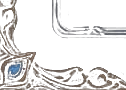
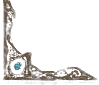
[Claude] fix: 成就頁依回饋調整（還原原外框、角飾對齊、標題縮小置中、進度條、固定高度、清除圖片殘留）

diff --git a/css/achievements.css b/css/achievements.css
@@ -51,46 +51,39 @@
 }
 
 /* ---- 2026-10-31 換皮：依使用者提供的授權示意圖（images/ui/achievements/*，由示意圖裁切；標題文字已抹除，改由 String 表顯示） ---- */
-#achv-modal .achv-card-box {
-  position: relative; width: min(1000px, 100%); padding: 22px 30px 26px !important; border: 8px solid transparent !important; border-radius: 6px !important;
-  border-image: linear-gradient(135deg, #7d8798, #3a4150 30%, #232833 60%, #5b6577) 1 !important;
-  background: radial-gradient(ellipse at 50% 0%, #1b2230, #0f131b 70%) padding-box !important;
-  box-shadow: 0 20px 70px #000c, inset 0 0 0 2px #0a0c11, inset 0 0 40px #000a !important;
-}
-.achv-corner { position: absolute; width: 96px; height: 70px; background-repeat: no-repeat; background-size: 100% 100%; pointer-events: none; }
+#achv-modal .achv-card-box { position: relative; width: min(1000px, 100%); height: min(92vh, 780px); max-height: none; padding: 22px 30px 26px !important; }
+.achv-corner { position: absolute; width: 79px; height: 68px; background-repeat: no-repeat; background-size: 100% 100%; pointer-events: none; }
 .achv-corner.tl { top: 0; left: 0; background-image: url(../images/ui/achievements/corner-tl.png); }
 .achv-corner.tr { top: 0; right: 0; background-image: url(../images/ui/achievements/corner-tr.png); }
 .achv-corner.bl { bottom: 0; left: 0; background-image: url(../images/ui/achievements/corner-bl.png); }
 .achv-corner.br { bottom: 0; right: 0; background-image: url(../images/ui/achievements/corner-br.png); }
-#achv-modal .achv-heading { position: relative; display: flex; justify-content: center; margin-bottom: 14px; }
-.achv-banner { width: min(520px, 72%); aspect-ratio: 730 / 130; background: url(../images/ui/achievements/banner.png) center / 100% 100% no-repeat; display: flex; align-items: center; justify-content: center; }
+#achv-modal .achv-heading { display: flex; justify-content: center; margin-bottom: 14px; }
+.achv-banner { width: min(416px, 58%); aspect-ratio: 730 / 130; background: url(../images/ui/achievements/banner.png) center / 100% 100% no-repeat; display: flex; align-items: center; justify-content: center; }
 #achv-modal .achv-banner h2 {
-  margin: 0 !important; font-size: clamp(26px, 4vw, 40px) !important; line-height: 1 !important; letter-spacing: 8px; font-weight: 800; padding-left: 8px;
+  margin: 0 !important; width: 100%; text-align: center; font-size: clamp(22px, 3.4vw, 34px) !important; line-height: 1 !important;
+  letter-spacing: 8px; text-indent: 8px; font-weight: 800; padding: 0;
   background: linear-gradient(#fff3c8, #e8b552 55%, #a8721f); -webkit-background-clip: text; background-clip: text; color: transparent;
   filter: drop-shadow(0 2px 2px #000) drop-shadow(0 0 8px #e3a53a55);
 }
-#achv-modal .system-close {
-  position: absolute; top: -6px; right: -14px; width: 46px; height: 46px; border: 0; padding: 0; font-size: 0;
-  background: url(../images/ui/achievements/close.png) center / contain no-repeat !important;
-}
-#achv-modal .system-close:hover { filter: brightness(1.25); }
-#achv-summary { position: relative; padding-left: 52px; font-size: 26px; font-weight: 700; color: #f3ead6; line-height: 44px; text-shadow: 0 2px 4px #000; }
-#achv-summary::before { content: ''; position: absolute; left: 0; top: -2px; width: 40px; height: 46px; background: url(../images/ui/achievements/trophy.png) center / contain no-repeat; }
-.achv-total-track { display: none; }
-#achv-modal .achv-total { flex: 1 1 auto; }
+#achv-summary { position: relative; padding-left: 40px; font-size: 20px; font-weight: 700; color: #f3ead6; line-height: 32px; text-shadow: 0 2px 4px #000; margin-bottom: 4px; }
+#achv-summary::before { content: ''; position: absolute; left: 0; top: -1px; width: 32px; height: 34px; background: url(../images/ui/achievements/trophy.png) center / contain no-repeat; }
+#achv-modal .achv-total { flex: 0 1 380px; }
+#achv-modal .achv-total-track { display: block; height: 12px; border-radius: 6px; background: #0b0d12; border: 2px solid #3d4452; }
+#achv-modal .achv-total-track i { border-radius: 4px; background: linear-gradient(#ffe08a, #d79a2b 60%, #8a5a12); }
+#achv-modal .achv-top { justify-content: space-between; }
 #achv-modal .achv-filters button {
   min-width: 78px; min-height: 42px; border: 2px solid #5a6272; border-radius: 6px; font-size: 17px; font-weight: 700; color: #d8dce4;
   background: linear-gradient(#4b5262, #2b303c); box-shadow: inset 0 1px 0 #ffffff30, 0 2px 4px #0008;
 }
 #achv-modal .achv-filters button#achv-filter-done { background: linear-gradient(#8a5a40, #4e2f22); border-color: #a9744f; color: #f5dcc6; }
 #achv-modal .achv-filters button.on { border-color: #f1c35a; color: #fff3c8; box-shadow: 0 0 10px #f1c35a99, inset 0 1px 0 #ffffff40; }
-#achv-modal #achv-list { grid-template-columns: repeat(3, minmax(0, 1fr)); gap: 14px 14px; padding: 4px 12px 4px 4px; }
+#achv-modal #achv-list { flex: 1 1 auto; align-content: start; grid-template-columns: repeat(3, minmax(0, 1fr)); gap: 14px 14px; padding: 4px 12px 4px 4px; }
 @media (max-width: 900px) { #achv-modal #achv-list { grid-template-columns: repeat(2, minmax(0, 1fr)); } }
 @media (max-width: 600px) { #achv-modal #achv-list { grid-template-columns: 1fr; } }
 #achv-modal .achv-card { position: relative; min-height: 112px; gap: 14px; padding: 12px 16px; border-radius: 6px; }
 #achv-modal .achv-card.done {
   border: 12px solid transparent; padding: 4px 10px; box-shadow: none;
-  border-image: url(../images/ui/achievements/done-frame.png) 34 / 34px stretch;
+  border-image: url(../images/ui/achievements/done-frame.png) 48 / 48px stretch;
   background: linear-gradient(#3a2a1e, #241911) padding-box; margin: 0;
 }
 #achv-modal .achv-card.todo {

diff --git a/index.html b/index.html
@@ -16,7 +16,7 @@
   <link rel="stylesheet" href="css/runeword.css?v=1.0.8">
   <link rel="stylesheet" href="css/gems.css?v=1.0.25">
   <link rel="stylesheet" href="css/dialogs.css?v=1.0.4">
-  <link rel="stylesheet" href="css/achievements.css?v=1.0.3">
+  <link rel="stylesheet" href="css/achievements.css?v=1.0.4">
   <link rel="stylesheet" href="css/world-map.css?v=1.0.12">
   <link rel="stylesheet" href="css/divine-forge.css?v=1.0.13">
   <link rel="stylesheet" href="css/equipment-chaos.css?v=1.0.5">
@@ -743,7 +743,7 @@
   <div id="achv-modal" class="system-overlay" style="display:none" aria-hidden="true">
     <div class="system-card achv-card-box" role="dialog" aria-modal="true" aria-labelledby="achv-modal-title">
       <i class="achv-corner tl"></i><i class="achv-corner tr"></i><i class="achv-corner bl"></i><i class="achv-corner br"></i>
-      <div class="achv-heading"><div class="achv-banner"><h2 id="achv-modal-title" data-str="2228"></h2></div><button id="achv-modal-close" class="system-close" type="button" data-str-attr="aria-label:2234"></button></div>
+      <div class="achv-heading"><div class="achv-banner"><h2 id="achv-modal-title" data-str="2228"></h2></div><button id="achv-modal-close" class="system-close" type="button" data-str-attr="aria-label:2234">×</button></div>
       <div class="achv-top">
         <div class="achv-total"><div id="achv-summary" aria-live="polite"></div><div class="achv-total-track"><i id="achv-total-bar"></i></div></div>
         <div class="achv-filters">
